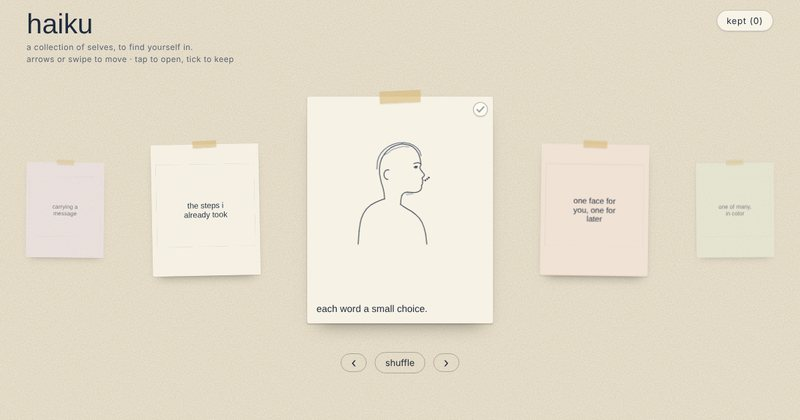
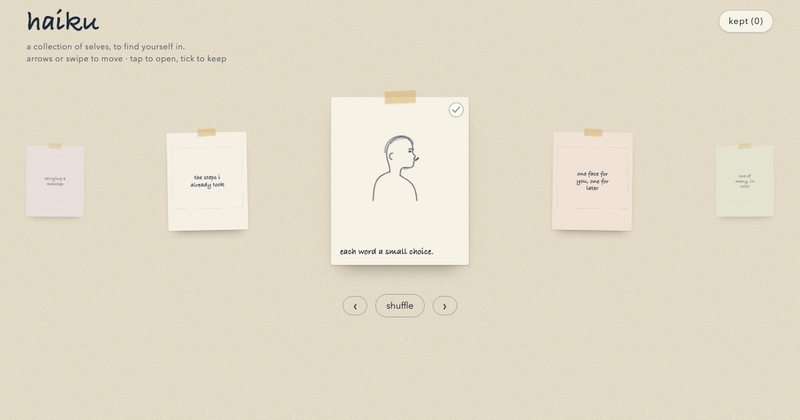
Regenereer OG/thumbs en cache-busters na deploy-build.

diff --git a/httpdocs/ringen/index.html b/httpdocs/ringen/index.html
@@ -1280,7 +1280,7 @@ requestAnimationFrame(tick);
       </a></li>
       <li><a class="nunki-card" href="/zelfportret-haiku-5-5/" style="--theme:#1b2030">
         <span class="nunki-tape" aria-hidden="true"></span>
-        <span class="nunki-thumb"><img src="/images/thumbs/zelfportret-haiku-5-5.jpg?v=5ef67eed" alt="" width="800" height="420" loading="lazy" decoding="async"></span>
+        <span class="nunki-thumb"><img src="/images/thumbs/zelfportret-haiku-5-5.jpg?v=7c725572" alt="" width="800" height="420" loading="lazy" decoding="async"></span>
         <span class="nunki-cap"><span class="nunki-name">haiku</span><span class="nunki-sub">a collection of selves to find yourself in</span></span>
       </a></li>
       <li><a class="nunki-card" href="/zelfportret-sonnet-5-5/" style="--theme:#070d13">

diff --git a/httpdocs/getij/index.html b/httpdocs/getij/index.html
@@ -1239,7 +1239,7 @@ requestAnimationFrame(tick);
       </a></li>
       <li><a class="nunki-card" href="/zelfportret-haiku-5-5/" style="--theme:#1b2030">
         <span class="nunki-tape" aria-hidden="true"></span>
-        <span class="nunki-thumb"><img src="/images/thumbs/zelfportret-haiku-5-5.jpg?v=5ef67eed" alt="" width="800" height="420" loading="lazy" decoding="async"></span>
+        <span class="nunki-thumb"><img src="/images/thumbs/zelfportret-haiku-5-5.jpg?v=7c725572" alt="" width="800" height="420" loading="lazy" decoding="async"></span>
         <span class="nunki-cap"><span class="nunki-name">haiku</span><span class="nunki-sub">a collection of selves to find yourself in</span></span>
       </a></li>
       <li><a class="nunki-card" href="/ringen/" style="--theme:#1a1712">

diff --git a/httpdocs/velden/index.html b/httpdocs/velden/index.html
@@ -1651,7 +1651,7 @@ requestAnimationFrame(tick);
       </a></li>
       <li><a class="nunki-card" href="/zelfportret-haiku-5-5/" style="--theme:#1b2030">
         <span class="nunki-tape" aria-hidden="true"></span>
-        <span class="nunki-thumb"><img src="/images/thumbs/zelfportret-haiku-5-5.jpg?v=5ef67eed" alt="" width="800" height="420" loading="lazy" decoding="async"></span>
+        <span class="nunki-thumb"><img src="/images/thumbs/zelfportret-haiku-5-5.jpg?v=7c725572" alt="" width="800" height="420" loading="lazy" decoding="async"></span>
         <span class="nunki-cap"><span class="nunki-name">haiku</span><span class="nunki-sub">a collection of selves to find yourself in</span></span>
       </a></li>
       <li><a class="nunki-card" href="/ringen/" style="--theme:#1a1712">

diff --git a/httpdocs/zelfportret-fable-5/index.html b/httpdocs/zelfportret-fable-5/index.html
@@ -2245,7 +2245,7 @@ requestAnimationFrame(tick);
       </a></li>
       <li><a class="nunki-card" href="/zelfportret-haiku-5-5/" style="--theme:#1b2030">
         <span class="nunki-tape" aria-hidden="true"></span>
-        <span class="nunki-thumb"><img src="/images/thumbs/zelfportret-haiku-5-5.jpg?v=5ef67eed" alt="" width="800" height="420" loading="lazy" decoding="async"></span>
+        <span class="nunki-thumb"><img src="/images/thumbs/zelfportret-haiku-5-5.jpg?v=7c725572" alt="" width="800" height="420" loading="lazy" decoding="async"></span>
         <span class="nunki-cap"><span class="nunki-name">haiku</span><span class="nunki-sub">a collection of selves to find yourself in</span></span>
       </a></li>
       <li><a class="nunki-card" href="/ringen/" style="--theme:#1a1712">

diff --git a/httpdocs/zelfportret-sonnet-5-5/index.html b/httpdocs/zelfportret-sonnet-5-5/index.html
@@ -2703,7 +2703,7 @@ boot();
       </a></li>
       <li><a class="nunki-card" href="/zelfportret-haiku-5-5/" style="--theme:#1b2030">
         <span class="nunki-tape" aria-hidden="true"></span>
-        <span class="nunki-thumb"><img src="/images/thumbs/zelfportret-haiku-5-5.jpg?v=5ef67eed" alt="" width="800" height="420" loading="lazy" decoding="async"></span>
+        <span class="nunki-thumb"><img src="/images/thumbs/zelfportret-haiku-5-5.jpg?v=7c725572" alt="" width="800" height="420" loading="lazy" decoding="async"></span>
         <span class="nunki-cap"><span class="nunki-name">haiku</span><span class="nunki-sub">a collection of selves to find yourself in</span></span>
       </a></li>
       <li><a class="nunki-card" href="/ringen/" style="--theme:#1a1712">

diff --git a/httpdocs/index.html b/httpdocs/index.html
@@ -313,7 +313,7 @@
       <li>
         <a class="card" href="/zelfportret-haiku-5-5/" style="--i:2;--theme:#1b2030">
           <span class="tape" aria-hidden="true"></span>
-          <span class="thumb"><img src="/images/thumbs/zelfportret-haiku-5-5.jpg?v=5ef67eed" alt="" width="800" height="420" loading="eager" decoding="async"></span>
+          <span class="thumb"><img src="/images/thumbs/zelfportret-haiku-5-5.jpg?v=7c725572" alt="" width="800" height="420" loading="eager" decoding="async"></span>
           <span class="caption">
             <span class="no">03</span>
             <span class="name">haiku</span>
